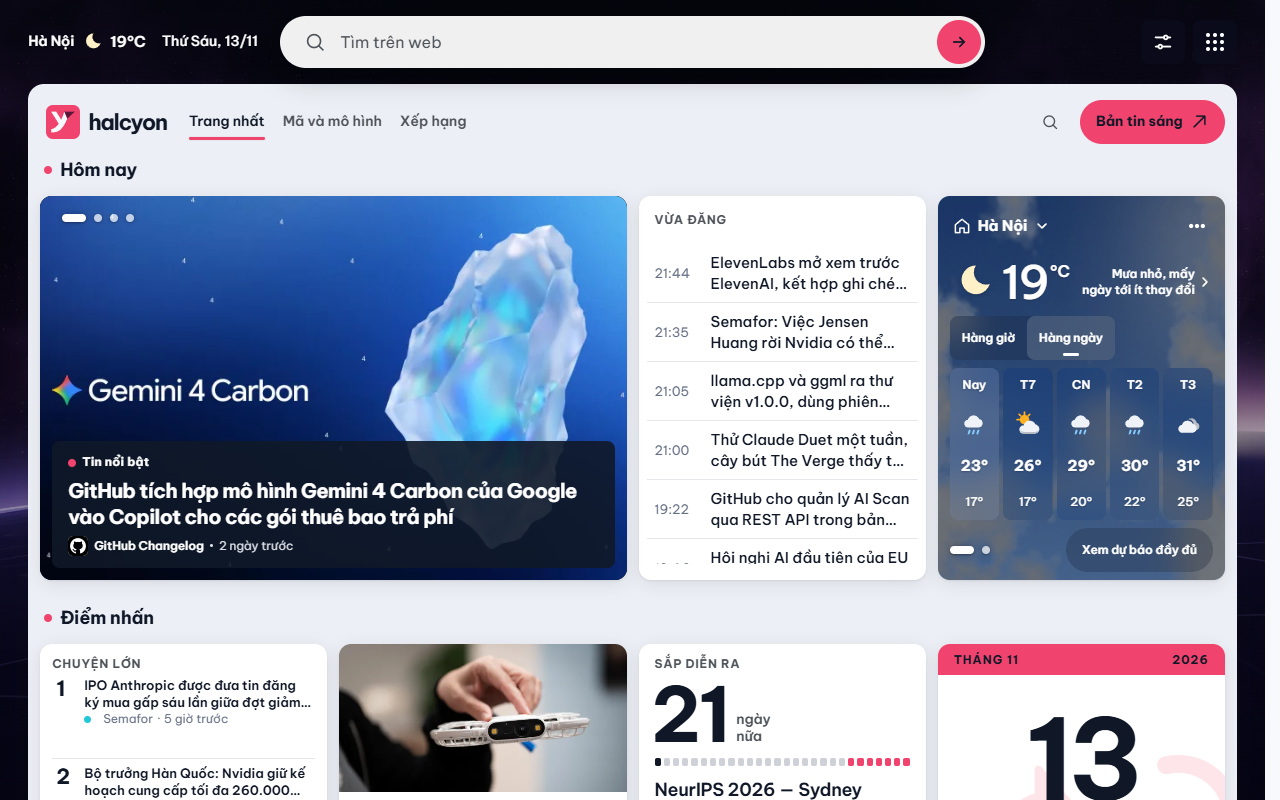
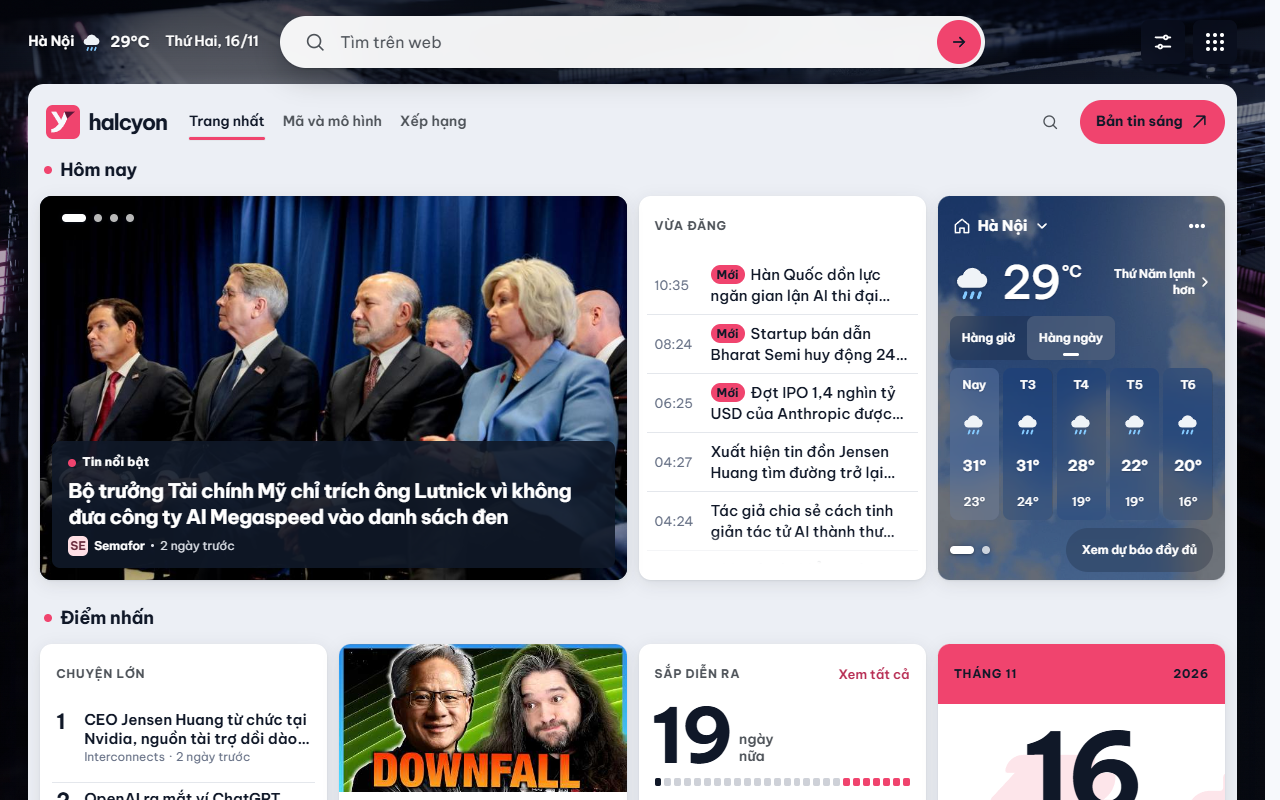
docs(store): prepare the 0.1.2 Chrome Web Store submission
Retake both 1280x800 screenshots from the 0.1.2 new tab with live data,
replace the promo tile with the brand kit's current render (the stored
one still had the old bill mark), and rewrite SUBMIT.md as an update:
each console field marked kept, changed or pasted again, the Package tab
upload, and the policy points checked on 16/11. The data disclosure names
hco.news, where reader links now open; the permission texts are unchanged.

diff --git a/extension/store/SUBMIT.md b/extension/store/SUBMIT.md
@@ -1,84 +1,104 @@
-# Hướng Dẫn Nộp Extension Halcyon Lên Chrome Web Store
+# Hướng Dẫn Nộp Bản Cập Nhật Halcyon 0.1.2 Lên Chrome Web Store
 
-Hướng dẫn từng bước để anh Tuấn nộp tiện ích **Halcyon** trên Chrome Web Store Developer Console của chính anh. Đăng nhập, phí đăng ký, tải gói lên và bấm nộp là việc của anh; Lucy cùng anh điền form.
+Bản 0.1.1 đã được duyệt. Đây là các bước để anh Tuấn nộp bản **0.1.2** trên Chrome Web Store Developer Console của chính anh. Đăng nhập, tải gói lên và bấm nộp là việc của anh; console không script được nên anh tự dán từng ô theo bảng ở mục 0.
+
+**Bản 0.1.2 đổi gì:** giao diện mới của đợt rà soát 16/11 (tin nổi bật, "Vừa đăng", lớp vỏ, thẻ Sự kiện luôn có "Xem tất cả", chấm carousel chạm nửa trái/phải); mọi liên kết người đọc bấm (logo, "Bản tin sáng", trang từng tin, "Sao chép liên kết", trang Nguồn, menu) mở trên `https://hco.news/` thay vì `radar-ai-vn.pages.dev`. **Không đổi quyền:** `permissions` và `host_permissions` giống hệt 0.1.1, vì một quyền máy chủ mới trong bản cập nhật làm Chrome tạm tắt tiện ích ở máy người đang dùng cho tới khi họ chấp nhận lại ([Permission warnings](https://developer.chrome.com/docs/extensions/develop/concepts/permission-warnings)).
 
 ---
 
-## 0. Việc anh tự nhập hoặc tự tích (bản tóm tắt)
+## 0. Từng ô trên console: giữ, đổi hay dán lại
 
-| Ô trên Developer Console | Giá trị đề xuất | Lấy từ |
-| --- | --- | --- |
-| Category | `News & Weather` | mục 2, bước 2 |
-| Language | `Vietnamese` | `listing-vi.md` |
-| Single purpose | đoạn tiếng Anh trong `single-purpose.txt` | mục 2, bước 3 |
-| Permission justification: `storage`, `alarms`, `search`, host `https://radar-ai-vn.pages.dev/*` | bốn đoạn trong `permissions.md` | mục 2, bước 3 |
-| Remote code | **No, I am not using remote code** | mục 2, bước 3 |
-| Data usage: các ô loại dữ liệu | **không tích ô nào** (anh quyết, xem lý do trong `data-disclosure.md` mục 1) | mục 2, bước 3 |
-| Ba cam kết (không bán, không dùng ngoài mục đích, không dùng cho tín dụng) | **tích cả ba** | mục 2, bước 3 |
-| Privacy policy URL | `https://hco.news/chinh-sach-rieng-tu.html` | mục 2, bước 3 |
-| Visibility / Regions / Pricing | Public / All regions / Free | mục 2, bước 4 |
+| Tab trên console | Ô | 0.1.2 | Lấy từ |
+| --- | --- | --- | --- |
+| Package | Upload New Package | **ĐỔI**: `extension-halcyon-0.1.2.zip` | mục 1.2 |
+| Store listing | Name | giữ: `Halcyon` | — |
+| Store listing | Summary | giữ (khối "Mô tả ngắn" trong `listing-vi.md`) | `listing-vi.md` |
+| Store listing | Description | giữ (khối "Mô tả chi tiết" trong `listing-vi.md`) | `listing-vi.md` |
+| Store listing | Category / Language | giữ: `News & Weather` / `Vietnamese` | — |
+| Store listing | Store icon 128×128 | giữ: `brand/assets/store/extension-icon-128.png` | mục 1.4 |
+| Store listing | Screenshots 1280×800 | **ĐỔI**: xoá hai ảnh cũ, tải hai ảnh mới chụp ngày 16/11 | mục 1.4 |
+| Store listing | Small promo tile 440×280 | **ĐỔI** nếu console còn ảnh có mỏ chim trắng trên chữ "y": tải `extension/store/anh/small-promo-tile-440x280.png` | mục 1.4 |
+| Store listing | Official URL / Homepage | giữ: `https://hco.news/` | — |
+| Privacy practices | Single purpose | **DÁN LẠI** nguyên văn `single-purpose.txt` (chữ không đổi; ô này phải dán lại mỗi khi gói thay đổi) | mục 2, bước 3 |
+| Privacy practices | `storage`, `alarms`, `search` | giữ (ba khối đầu trong `permissions.md`, chữ không đổi) | `permissions.md` |
+| Privacy practices | Host permission `https://radar-ai-vn.pages.dev/*` | giữ (khối 4 trong `permissions.md`, chữ không đổi) | `permissions.md` |
+| Privacy practices | Remote code | giữ: **No, I am not using remote code** | — |
+| Privacy practices | Data usage: các ô loại dữ liệu | giữ: **không tích ô nào** | `data-disclosure.md` mục 1 |
+| Privacy practices | Ô giải trình dữ liệu (nếu console có) | **ĐỔI**: dán lại khối code `data-disclosure.md` mục 1 (thêm dòng `hco.news`) | `data-disclosure.md` |
+| Privacy practices | Ba cam kết | giữ: **tích cả ba** | — |
+| Privacy practices | Privacy policy URL | giữ: `https://hco.news/chinh-sach-rieng-tu.html` | — |
+| Distribution | Visibility / Regions / Pricing | giữ: Public / All regions / Free | — |
 
 ---
 
 ## 1. Chuẩn Bị Trước Khi Nộp
 
-1. **Trang chính sách riêng tư phải là bản mới trên mạng.** Mở `https://hco.news/chinh-sach-rieng-tu.html` và xác nhận dòng "Cập nhật lần cuối: 11 tháng 11, 2026" cùng mục 6 (Cloudflare Web Analytics, ảnh từ nhà xuất bản). Bản cũ ngày 10/11 còn hứa "không theo dõi" mà chưa nêu hai điều này; đừng nộp khi URL còn trả bản cũ. Trang lên mạng khi nhánh có thay đổi được merge vào `main` và lượt **Update AI Radar** kế tiếp deploy xong.
-2. **Gói zip:** từ thư mục gốc repo chạy `python extension/sync-site.py` (tab mới khớp trang chủ trên `main`), rồi `python extension/store/build-zip.py`. Tệp tải lên: `extension/store/extension-halcyon-0.1.1.zip` (bản sao ở thư mục gốc). Gói có `manifest.json` ở gốc, 83 tệp, không có `README.md`, `sync-site.py`, thư mục `store/` hay tệp `.py`.
-3. **Manifest trong gói:** Manifest V3, tên `Halcyon`, phiên bản `0.1.1`, `permissions: ["storage", "alarms", "search"]`, `host_permissions: ["https://radar-ai-vn.pages.dev/*"]`, ghi đè trang tab mới bằng `newtab.html`. Quyền `search` để ô "Tìm trên web" tìm bằng công cụ tìm kiếm mặc định của người đọc qua `chrome.search.query` (Chrome Web Store yêu cầu tab mới có ô tìm kiếm phải tôn trọng lựa chọn này). Không xin `tabs` hay quyền đọc trang web. Mọi script nằm trong gói (không có remote code).
+1. **Trang chính sách riêng tư** `https://hco.news/chinh-sach-rieng-tu.html` vẫn ghi "Cập nhật lần cuối: 11 tháng 11, 2026", có mục 6 (Cloudflare Web Analytics, ảnh từ nhà xuất bản) và khai `radar-ai-vn.pages.dev`. Bản 0.1.2 không đổi dữ liệu thu thập hay quyền, nên trang không cần sửa.
+2. **Gói zip:** dựng từ `main` sau khi PR 0.1.2 đã merge. Từ thư mục gốc repo chạy `python extension/sync-site.py`, rồi `python extension/store/build-zip.py`. Tệp tải lên: `extension/store/extension-halcyon-0.1.2.zip` (bản sao ở thư mục gốc). Gói có `manifest.json` ở gốc, 83 tệp, không có `README.md`, `sync-site.py`, thư mục `store/` hay tệp `.py`.
+3. **Manifest trong gói:** Manifest V3, tên `Halcyon`, phiên bản `0.1.2`, `permissions: ["storage", "alarms", "search"]`, `host_permissions: ["https://radar-ai-vn.pages.dev/*"]`, ghi đè trang tab mới bằng `newtab.html`. Quyền `search` để ô "Tìm trên web" tìm bằng công cụ tìm kiếm mặc định của người đọc qua `chrome.search.query` (Chrome Web Store yêu cầu tab mới có ô tìm kiếm phải tôn trọng lựa chọn này). Không xin `tabs` hay quyền đọc trang web. Mọi script nằm trong gói (không có remote code). Liên kết tới `hco.news` là thẻ `<a>` thường, không cần quyền.
 4. **Ảnh cho trang Store:**
-   - Store icon 128×128: `brand/assets/store/extension-icon-128.png`
-   - Small promo tile 440×280: `brand/assets/store/promo-small.png`
-   - Screenshots 1280×800: `extension/store/anh/screenshot-1-sang-1280x800.png` (sáng) và `extension/store/anh/screenshot-2-toi-1280x800.png` (tối).
+   - Store icon 128×128: `brand/assets/store/extension-icon-128.png` (không đổi).
+   - Small promo tile 440×280: `extension/store/anh/small-promo-tile-440x280.png`, giống hệt `brand/assets/store/promo-small.png` (wordmark chỉ có chữ, từ `python brand/build-assets.py` rồi `python brand/export-png.py`).
+   - Screenshots 1280×800: `extension/store/anh/screenshot-1-sang-1280x800.png` (sáng) và `extension/store/anh/screenshot-2-toi-1280x800.png` (tối), chụp 16/11 từ tab mới của chính gói 0.1.2 với dữ liệu thật.
    - Chụp lại ảnh khi giao diện đổi: `node brand/store-shots.js`. Lệnh cài chính thư mục `extension/` vào Chrome headless, chờ service worker của tiện ích lưu `radar-window.json` đang chạy trên mạng, báo lỗi nếu dữ liệu cũ hơn 3 giờ hoặc tab mới không có thẻ tin, rồi chụp tab mới của tiện ích ở hai giao diện.
-5. **Tài khoản nhà phát triển:** [Chrome Web Store Developer Console](https://chrome.google.com/webstore/devconsole), tài khoản Google của anh. Phí đăng ký một lần 5 USD là quyết định chi tiền của anh.
 
 ---
 
 ## 2. Các Bước Trên Developer Console
 
-### Bước 1: Tải gói lên (Upload Package)
-1. Nhấn **"New Item"**.
-2. Chọn `extension/store/extension-halcyon-0.1.1.zip`.
-3. Console đọc manifest: Manifest V3, quyền `storage`, `alarms`, `search`, host `https://radar-ai-vn.pages.dev/*`.
+### Bước 1: Tải gói mới
+1. Mở [Chrome Web Store Developer Console](https://chrome.google.com/webstore/devconsole), chọn mục **Halcyon** (không bấm "New Item").
+2. Tab **Package** → **Upload New Package** → chọn `extension/store/extension-halcyon-0.1.2.zip`.
+3. Console đọc manifest: phiên bản `0.1.2`, quyền `storage`, `alarms`, `search`, host `https://radar-ai-vn.pages.dev/*`. Nếu console báo quyền mới thì dừng, chưa nộp, và chuyển nguyên văn cho Lucy: gói đúng không xin quyền mới.
 
 ### Bước 2: Store Listing
-1. **Product details:**
-   - **Language:** `Vietnamese`.
-   - **Name:** `Halcyon`
-   - **Summary (tối đa 132 ký tự):** dòng trong `listing-vi.md`:
-     ```text
-     Những mẩu tin AI ngắn gọn trên tab mới, kèm tìm kiếm web và bản tin lưu đọc ngoại tuyến.
-     ```
-   - **Description:** toàn bộ khối "Mô tả chi tiết" trong `listing-vi.md` (bản tiếng Anh trong `listing-en.md` nếu anh thêm ngôn ngữ thứ hai).
-2. **Graphic assets:** icon, hai screenshots và promo tile ở mục 1.4.
-3. **Category:** `News & Weather`.
-4. **Official URL / Homepage:** `https://hco.news/`
+1. Name, Summary, Description, Category, Language, Official URL: giữ như 0.1.1 (bảng mục 0).
+2. **Graphic assets:** xoá hai screenshot cũ, tải hai ảnh mới ở mục 1.4. Kiểm promo tile: nếu console còn ảnh có mỏ chim trắng trên chữ "y", thay bằng ảnh ở mục 1.4.
 
 Nhấn **"Save draft"**.
 
-### Bước 3: Privacy
-1. **Single purpose description:** dán nguyên văn `single-purpose.txt`:
+### Bước 3: Privacy practices
+1. **Single purpose description:** dán lại nguyên văn `single-purpose.txt`:
    ```text
    Halcyon replaces the browser's new tab page with a Vietnamese-language AI news reader: curated AI stories with links to their original publishers, a web search box that searches with the browser's default search engine, and the latest edition saved on the device so stories stay readable offline.
    ```
-2. **Permission justifications:** dán từng đoạn trong khối code của `permissions.md` vào ô `storage`, `alarms`, `search` và ô host permission.
-3. **Remote code:** chọn "No, I am not using remote code". Mọi tệp JS nằm trong gói; trang tab mới chỉ tải dữ liệu JSON và ảnh.
-4. **Data usage:** không tích loại dữ liệu nào (đề xuất; anh quyết). Nếu console có ô giải trình, dán khối code trong `data-disclosure.md` mục 1. Tích cả ba cam kết.
-5. **Privacy policy:** `https://hco.news/chinh-sach-rieng-tu.html` (đã kiểm ở mục 1.1).
+2. **Permission justifications:** bốn ô `storage`, `alarms`, `search` và host permission giữ nguyên chữ của 0.1.1 (bốn khối code trong `permissions.md`). Nếu console để trống ô nào thì dán khối tương ứng.
+3. **Remote code:** "No, I am not using remote code".
+4. **Data usage:** không tích loại dữ liệu nào. Nếu console có ô giải trình, dán lại khối code trong `data-disclosure.md` mục 1 (có thêm dòng `hco.news`). Tích cả ba cam kết.
+5. **Privacy policy:** `https://hco.news/chinh-sach-rieng-tu.html`.
 
 Nhấn **"Save draft"**.
 
 ### Bước 4: Distribution
-- **Visibility:** Public. **Regions:** All regions. **Pricing:** Free.
+- Giữ: Public, All regions, Free.
 
 ### Bước 5: Nộp duyệt
 1. Kiểm tra không còn lỗi đỏ ở góc phải.
-2. Nhấn **"Submit for review"**, rồi **"Submit"** trong hộp xác nhận.
+2. Nhấn **"Submit for review"**, rồi **"Submit"** trong hộp xác nhận. Người đang dùng 0.1.1 không thấy gì thay đổi cho tới khi bản mới được xuất bản ([Update your Chrome Web Store item](https://developer.chrome.com/docs/webstore/update)). Muốn tự chọn lúc lên, bỏ dấu ô xuất bản tự động trong hộp xác nhận; sau khi duyệt xong có 30 ngày để bấm xuất bản.
 
 ---
 
-## 3. Sau Khi Nộp
+## 3. Đã Kiểm Theo Chính Sách Chrome Web Store (16/11/2026)
 
-- Google duyệt tiện ích mới thường mất vài ngày; thư báo gửi về email của tài khoản nhà phát triển.
+Nguồn: [Program Policies](https://developer.chrome.com/docs/webstore/program-policies/policies), [Supplying Images](https://developer.chrome.com/docs/webstore/images), [Update your item](https://developer.chrome.com/docs/webstore/update), [Permission warnings](https://developer.chrome.com/docs/extensions/develop/concepts/permission-warnings), mở ngày 16/11/2026.
+
+| Điểm chính sách | Halcyon 0.1.2 |
+| --- | --- |
+| API Use: ghi đè tab mới phải qua URL Overrides API | `chrome_url_overrides.newtab = newtab.html` |
+| Quality Guidelines: tab mới có ô tìm kiếm phải tôn trọng cài đặt tìm kiếm của người dùng | ô "Tìm trên web" gọi `chrome.search.query` (công cụ mặc định của người đọc), không đổi nhà cung cấp |
+| Single purpose: một mục đích hẹp, dễ hiểu | trình đọc tin AI trên tab mới; ô tìm web, thời tiết, lịch là phần của trang tab mới, không thêm tính năng ngoài mục đích trong 0.1.2 |
+| Use of Permissions: xin quyền hẹp nhất | `storage`, `alarms`, `search` và một host; 0.1.2 không thêm hay bớt quyền |
+| Privacy Policy and Disclosure | chính sách 11/11 khai các máy chủ tiện ích liên hệ (test `test_privacy_policy_discloses_every_external_host_in_extension_sources`), có `hco.news` |
+| Code Readability / MV3: không remote code, không làm rối mã | mọi script nằm trong gói, không minify che giấu, không `<script>` ngoài (`sync-site.py` chặn khi dựng) |
+| Misleading or Unexpected Behavior: mô tả và ảnh khớp sản phẩm | ảnh chụp từ chính gói 0.1.2; listing không hứa tính năng đã bỏ |
+| Ảnh: screenshot 1280×800, góc vuông, phủ kín; promo 440×280 | hai ảnh 1280×800 chụp toàn khung; promo 440×280 |
+
+Một điểm chưa khớp hướng dẫn ảnh (không phải chính sách bắt buộc): trang Supplying Images khuyên promo tile tránh chữ, còn promo hiện có dòng "Những mẩu tin AI ngắn gọn". Anh quyết có bỏ dòng này ở bản sau hay không.
+
+---
+
+## 4. Sau Khi Nộp
+
+- Bản cập nhật được duyệt như một mục mới; thời gian tùy mức thay đổi. Thư báo gửi về email của tài khoản nhà phát triển.
 - Nếu Google hỏi lại hoặc từ chối: chuyển nguyên văn thư cho Lucy, không sửa gói trực tiếp trên console.
-- Lần cập nhật sau: tăng `version` trong `extension/manifest.json`, chạy lại mục 1.2 và 1.4, tải gói mới lên cùng mục.
+- Lần cập nhật sau: tăng `version` trong `extension/manifest.json`, chạy lại mục 1.2 và 1.4, tải gói mới lên tab Package của cùng mục, và dán lại ô Single purpose.

diff --git a/extension/store/permissions.md b/extension/store/permissions.md
@@ -36,4 +36,4 @@ This is Halcyon's own static site on Cloudflare Pages. The service worker fetche
 
 ### Các dịch vụ ngoài khác được tiện ích liên hệ (không cần quyền)
 
-Tab mới còn gửi yêu cầu tới: `hn.algolia.com` (tin Hacker News), `huggingface.co` (bài báo, mô hình, avatar), `github.com` (logo chủ repo), `avatars.githubusercontent.com` và `opengraph.githubassets.com` (ảnh GitHub), `cdn-thumbnails.huggingface.co` (ảnh Hugging Face), `i.ytimg.com` (ảnh video), `api.open-meteo.com` (thời tiết của thành phố người đọc chọn), `ssl.gstatic.com` (biểu tượng dịch vụ Google), và máy chủ ảnh của các nhà xuất bản (ảnh minh họa tin tải thẳng từ nguồn gốc). Từ khóa trong ô "Tìm trên web" do Chrome gửi tới công cụ tìm kiếm mặc định của người đọc, không qua Halcyon. Các liên kết `calendar.google.com`, các ứng dụng Google và `creativecommons.org` chỉ mở khi người đọc bấm. Mỗi dịch vụ nhận dữ liệu yêu cầu thông thường như địa chỉ IP. Khai báo đầy đủ nằm trong `data-disclosure.md` và trang chính sách riêng tư.
+Tab mới còn gửi yêu cầu tới: `hn.algolia.com` (tin Hacker News), `huggingface.co` (bài báo, mô hình, avatar), `github.com` (logo chủ repo), `avatars.githubusercontent.com` và `opengraph.githubassets.com` (ảnh GitHub), `cdn-thumbnails.huggingface.co` (ảnh Hugging Face), `i.ytimg.com` (ảnh video), `api.open-meteo.com` (thời tiết của thành phố người đọc chọn), `ssl.gstatic.com` (biểu tượng dịch vụ Google), và máy chủ ảnh của các nhà xuất bản (ảnh minh họa tin tải thẳng từ nguồn gốc). Từ khóa trong ô "Tìm trên web" do Chrome gửi tới công cụ tìm kiếm mặc định của người đọc, không qua Halcyon. Các liên kết `calendar.google.com`, các ứng dụng Google và `creativecommons.org` chỉ mở khi người đọc bấm. Từ 0.1.2, logo, "Bản tin sáng", trang từng tin, liên kết "Sao chép liên kết", trang Nguồn và các mục menu mở trên website `hco.news` khi người đọc bấm; một liên kết không cần quyền nào, nên host permission vẫn chỉ là máy chủ dữ liệu ở mục 4. Mỗi dịch vụ nhận dữ liệu yêu cầu thông thường như địa chỉ IP. Khai báo đầy đủ nằm trong `data-disclosure.md` và trang chính sách riêng tư.

diff --git a/extension/store/data-disclosure.md b/extension/store/data-disclosure.md
@@ -28,6 +28,7 @@ Halcyon does not collect, upload, sell, or share personal data, browsing history
    - api.open-meteo.com: the weather forecast for the city the reader picks from a fixed list (only that city's coordinates are sent).
    - ssl.gstatic.com: icons on the Google service buttons and in the Google apps menu.
    - The user's default search engine: receives a query only when the user submits the web search box, sent by Chrome, not by Halcyon.
+   - hco.news (Halcyon's website): a story's page, the morning edition and the sources page open there only when the reader clicks a link; the website counts page views with Cloudflare Web Analytics, without cookies, as the privacy policy's section 6 states. The new tab itself loads no analytics script.
    - calendar.google.com, other Google apps, creativecommons.org: opened only when the reader clicks them.
 ```
 *(Tiếng Việt: Halcyon không thu thập, tải lên, bán hay chia sẻ dữ liệu cá nhân, lịch sử duyệt web hay dữ liệu đo lường, và tab mới không tải công cụ thống kê nào. Trình duyệt kết nối thẳng tới các dịch vụ trên; mỗi dịch vụ nhận dữ liệu yêu cầu thông thường như địa chỉ IP. Dữ liệu bộ nhớ đệm và tùy chọn nằm trên máy người dùng.)*
